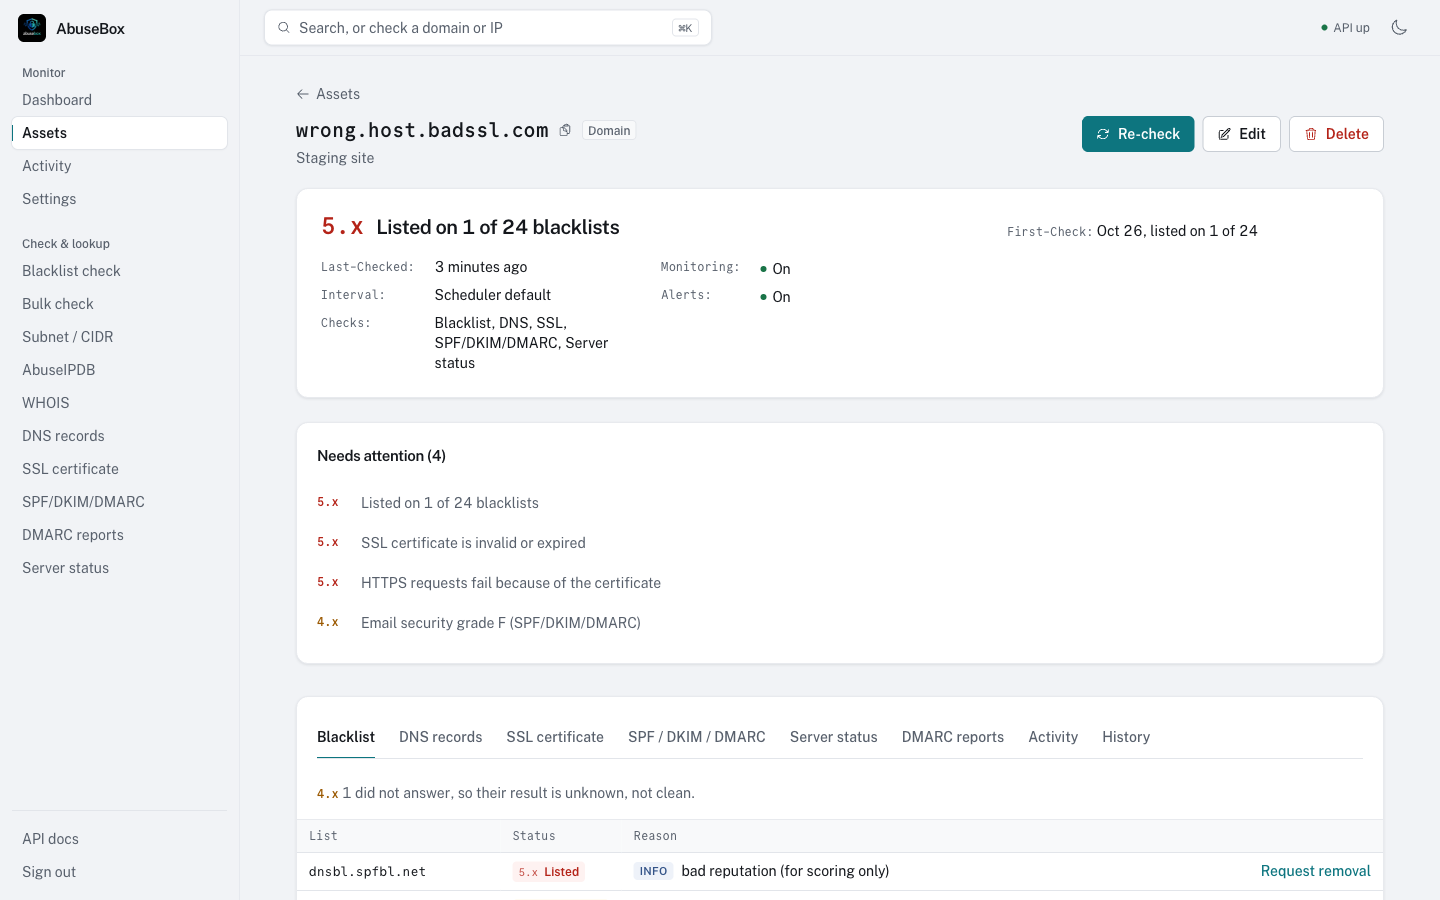
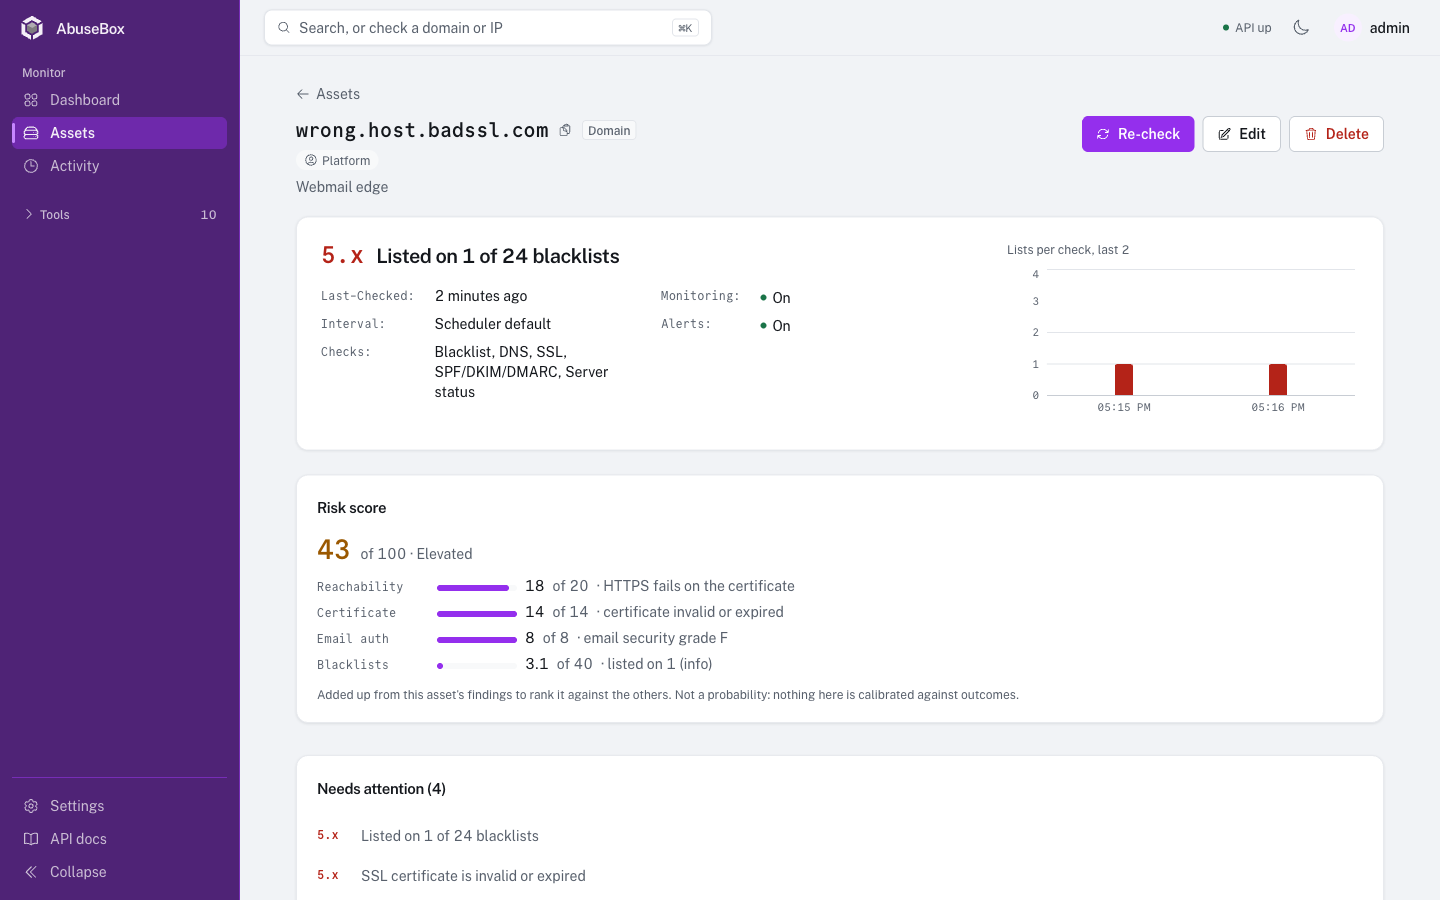
Show 1.4.0 on the project site, not the October interface
The three screenshots the site and the og:image are built from were taken
on 26 October, so every visitor still saw the teal palette and the old
navigation. The stylesheet had already moved to violet, which left the
page disagreeing with its own screenshots.

Refilmed on 1.4.0 with the same safe sample assets as before, so nothing
real is published: wrong.host.badssl.com, 127.0.0.2, example.com,
gmail.com and cloudflare.com, now with owners set and a spread of scores
from 43 down to 0.

The copy follows. The risk score is what 1.4.0 added and the site did not
mention it anywhere, so there is a section on it that gives the weights
and says plainly what the number is not. The asset caption now describes
the score panel it actually shows, and the checks list gains the owner
field.

diff --git a/site/index.html b/site/index.html
@@ -4,7 +4,7 @@
   <meta charset="utf-8">
   <meta name="viewport" content="width=device-width, initial-scale=1">
   <title>AbuseBox: self-hosted blacklist and email security monitor</title>
-  <meta name="description" content="AbuseBox watches your own IPs and domains: 24 DNS blacklists, SSL and domain expiry, SPF/DKIM/DMARC and uptime. Self-hosted, MIT licensed, and honest about blacklists that refuse to answer.">
+  <meta name="description" content="AbuseBox watches your own IPs and domains: 24 DNS blacklists, SSL and domain expiry, SPF/DKIM/DMARC and uptime. It scores every asset out of 100 so you know which to fix first. Self-hosted, MIT licensed, and honest about blacklists that refuse to answer.">
   <meta name="theme-color" content="#f1f3f6" media="(prefers-color-scheme: light)">
   <meta name="theme-color" content="#0c0e12" media="(prefers-color-scheme: dark)">
   <link rel="icon" type="image/png" href="logo.png">
@@ -12,7 +12,7 @@
   <link rel="stylesheet" href="style.css">
   <meta property="og:type" content="website">
   <meta property="og:title" content="AbuseBox">
-  <meta property="og:description" content="Self-hosted monitor for your IPs and domains: blacklists, certificates, email authentication and uptime.">
+  <meta property="og:description" content="Self-hosted monitor for your IPs and domains: blacklists, certificates, email authentication and uptime, with a risk score that ranks what to fix first.">
   <meta property="og:url" content="https://bekkaze.github.io/abusebox/">
   <meta property="og:image" content="https://bekkaze.github.io/abusebox/screens/dashboard.png">
   <meta name="twitter:card" content="summary_large_image">
@@ -38,7 +38,7 @@
       <div class="wrap">
         <div>
           <h1 id="hero-title">Find the blacklist listing before your users find the bounce.</h1>
-          <p class="lede">AbuseBox is a self-hosted monitor for the IPs and domains you run. It checks them on a schedule against 24 DNS blacklists, SSL and domain expiry, SPF, DKIM and DMARC, and uptime, then tells you what changed and why.</p>
+          <p class="lede">AbuseBox is a self-hosted monitor for the IPs and domains you run. It checks them on a schedule against 24 DNS blacklists, SSL and domain expiry, SPF, DKIM and DMARC, and uptime, scores each one out of 100, and tells you what changed and why.</p>
           <div class="actions">
             <a class="btn btn-primary" href="#install">Install with Docker</a>
             <a class="btn btn-secondary" href="https://github.com/bekkaze/abusebox">View on GitHub</a>
@@ -91,6 +91,20 @@
       </div>
     </section>
 
+    <section class="band" id="rank" aria-labelledby="rank-title">
+      <div class="wrap">
+        <div>
+          <h2 id="rank-title">Which one to fix first</h2>
+          <p class="intro">Counting findings puts the harmless asset on top. One Spamhaus listing stops your mail; three cosmetic warnings do not.</p>
+        </div>
+        <div class="body">
+          <p>Every asset scores out of 100, weighted by what the finding actually costs you. A listing counts by the severity that list's own return codes decode to, so the same "listed on 1 of 24" is 34 on a critical list and 10 on one that only marks dynamic ranges.</p>
+          <p>Six factors share the 100, ordered by how directly each stops mail being delivered: blacklists 40, reachability 20, certificate 14, domain 12, email authentication 8, reputation 6. Each one saturates, so a tenth listing moves the number far less than the first.</p>
+          <p>The score shows its working: every factor, what it contributed and out of what. An asset whose checks have not run is not scored as healthy, because missing evidence is not a finding. It ranks your assets against each other and is not calibrated against delivery outcomes.</p>
+        </div>
+      </div>
+    </section>
+
     <section class="band" aria-labelledby="checks-title">
       <div class="wrap">
         <div>
@@ -105,6 +119,7 @@
           <dt>DNS</dt><dd>A, AAAA, MX, TXT, CNAME, NS, SOA and PTR records.</dd>
           <dt>Email-Auth</dt><dd>SPF, DKIM and DMARC, graded A to F, plus DMARC report parsing.</dd>
           <dt>Server-Status</dt><dd>DNS resolution, ports 80 and 443, HTTP status and response time.</dd>
+          <dt>Owner</dt><dd>The team or person responsible for an asset, searchable with its hostname.</dd>
         </dl>
       </div>
     </section>
@@ -117,8 +132,8 @@
         </figure>
         <div class="shot-grid">
           <figure class="panel shot">
-            <img src="screens/asset_details.png" alt="One asset's report: verdict, header fields and the blacklist table" width="1440" height="900" loading="lazy">
-            <figcaption>Every asset gets a full report and a history of its checks.</figcaption>
+            <img src="screens/asset_details.png" alt="One asset's report: the verdict, a risk score of 43 out of 100 and the factors that produced it" width="1440" height="900" loading="lazy">
+            <figcaption>Every asset gets a score with its factors, a full report and a history of its checks.</figcaption>
           </figure>
           <figure class="panel shot">
             <img src="screens/dashboard_dark.png" alt="The dashboard in dark mode" width="1440" height="900" loading="lazy">
